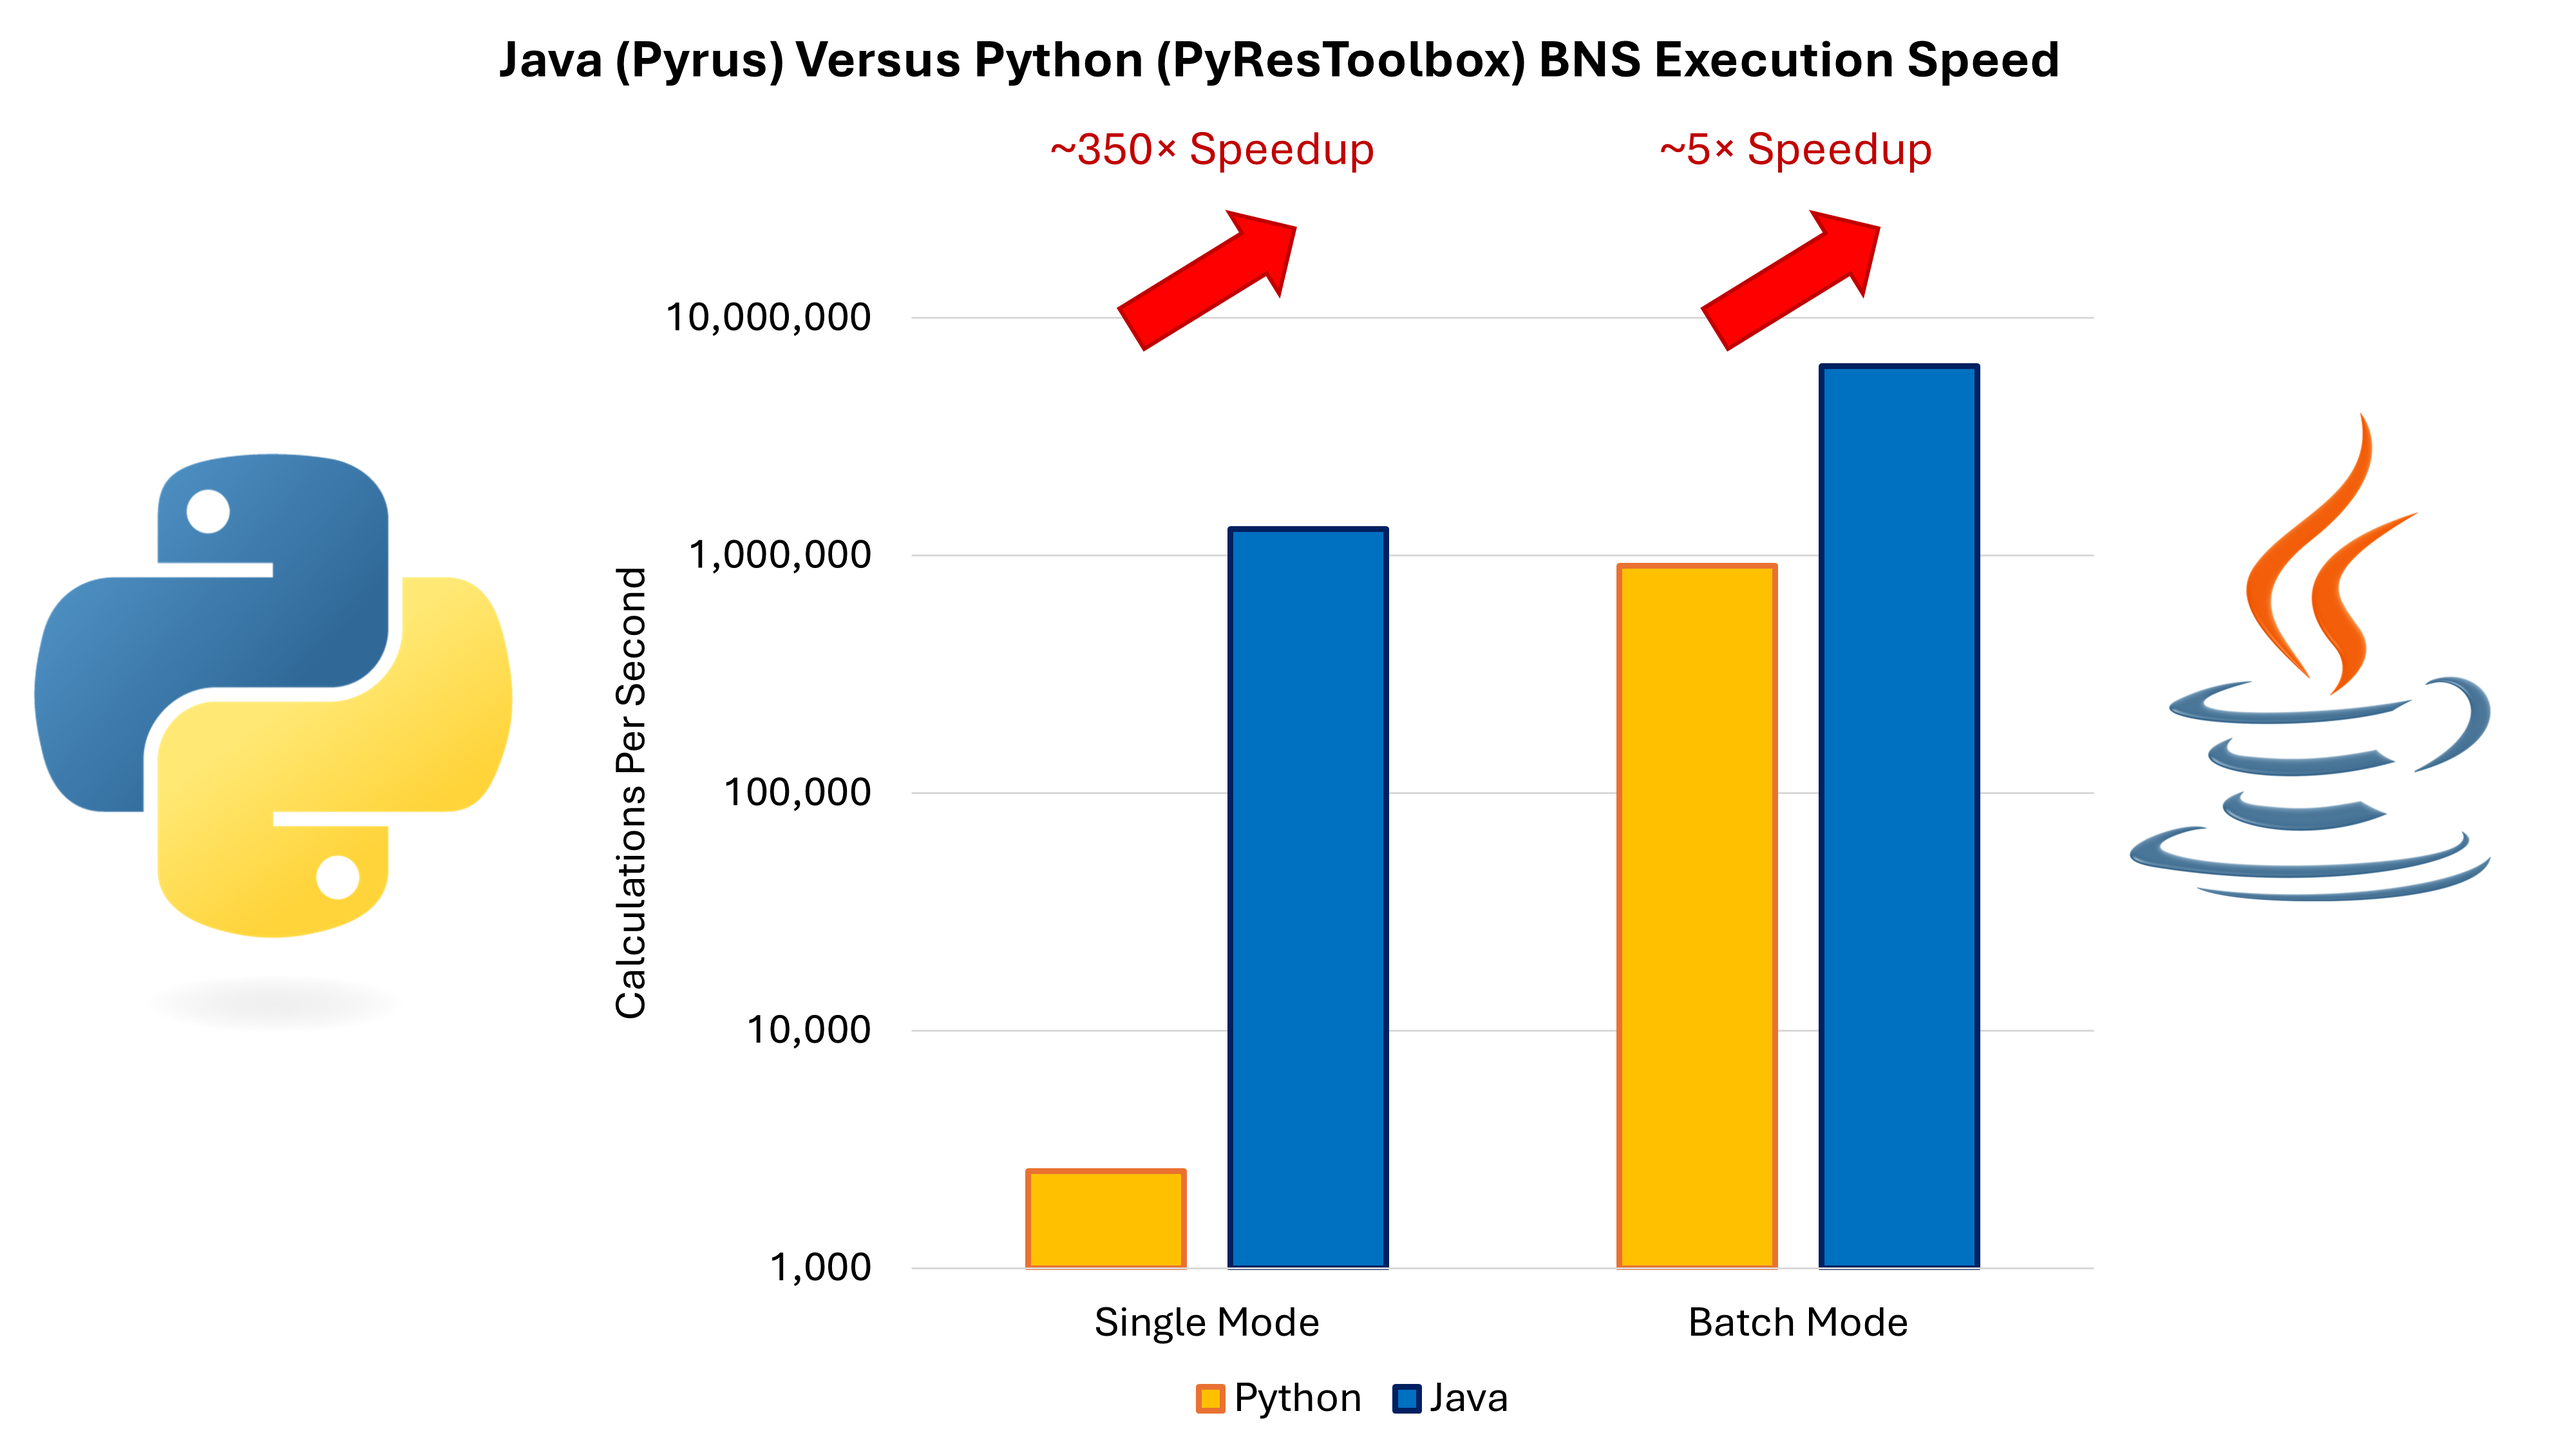
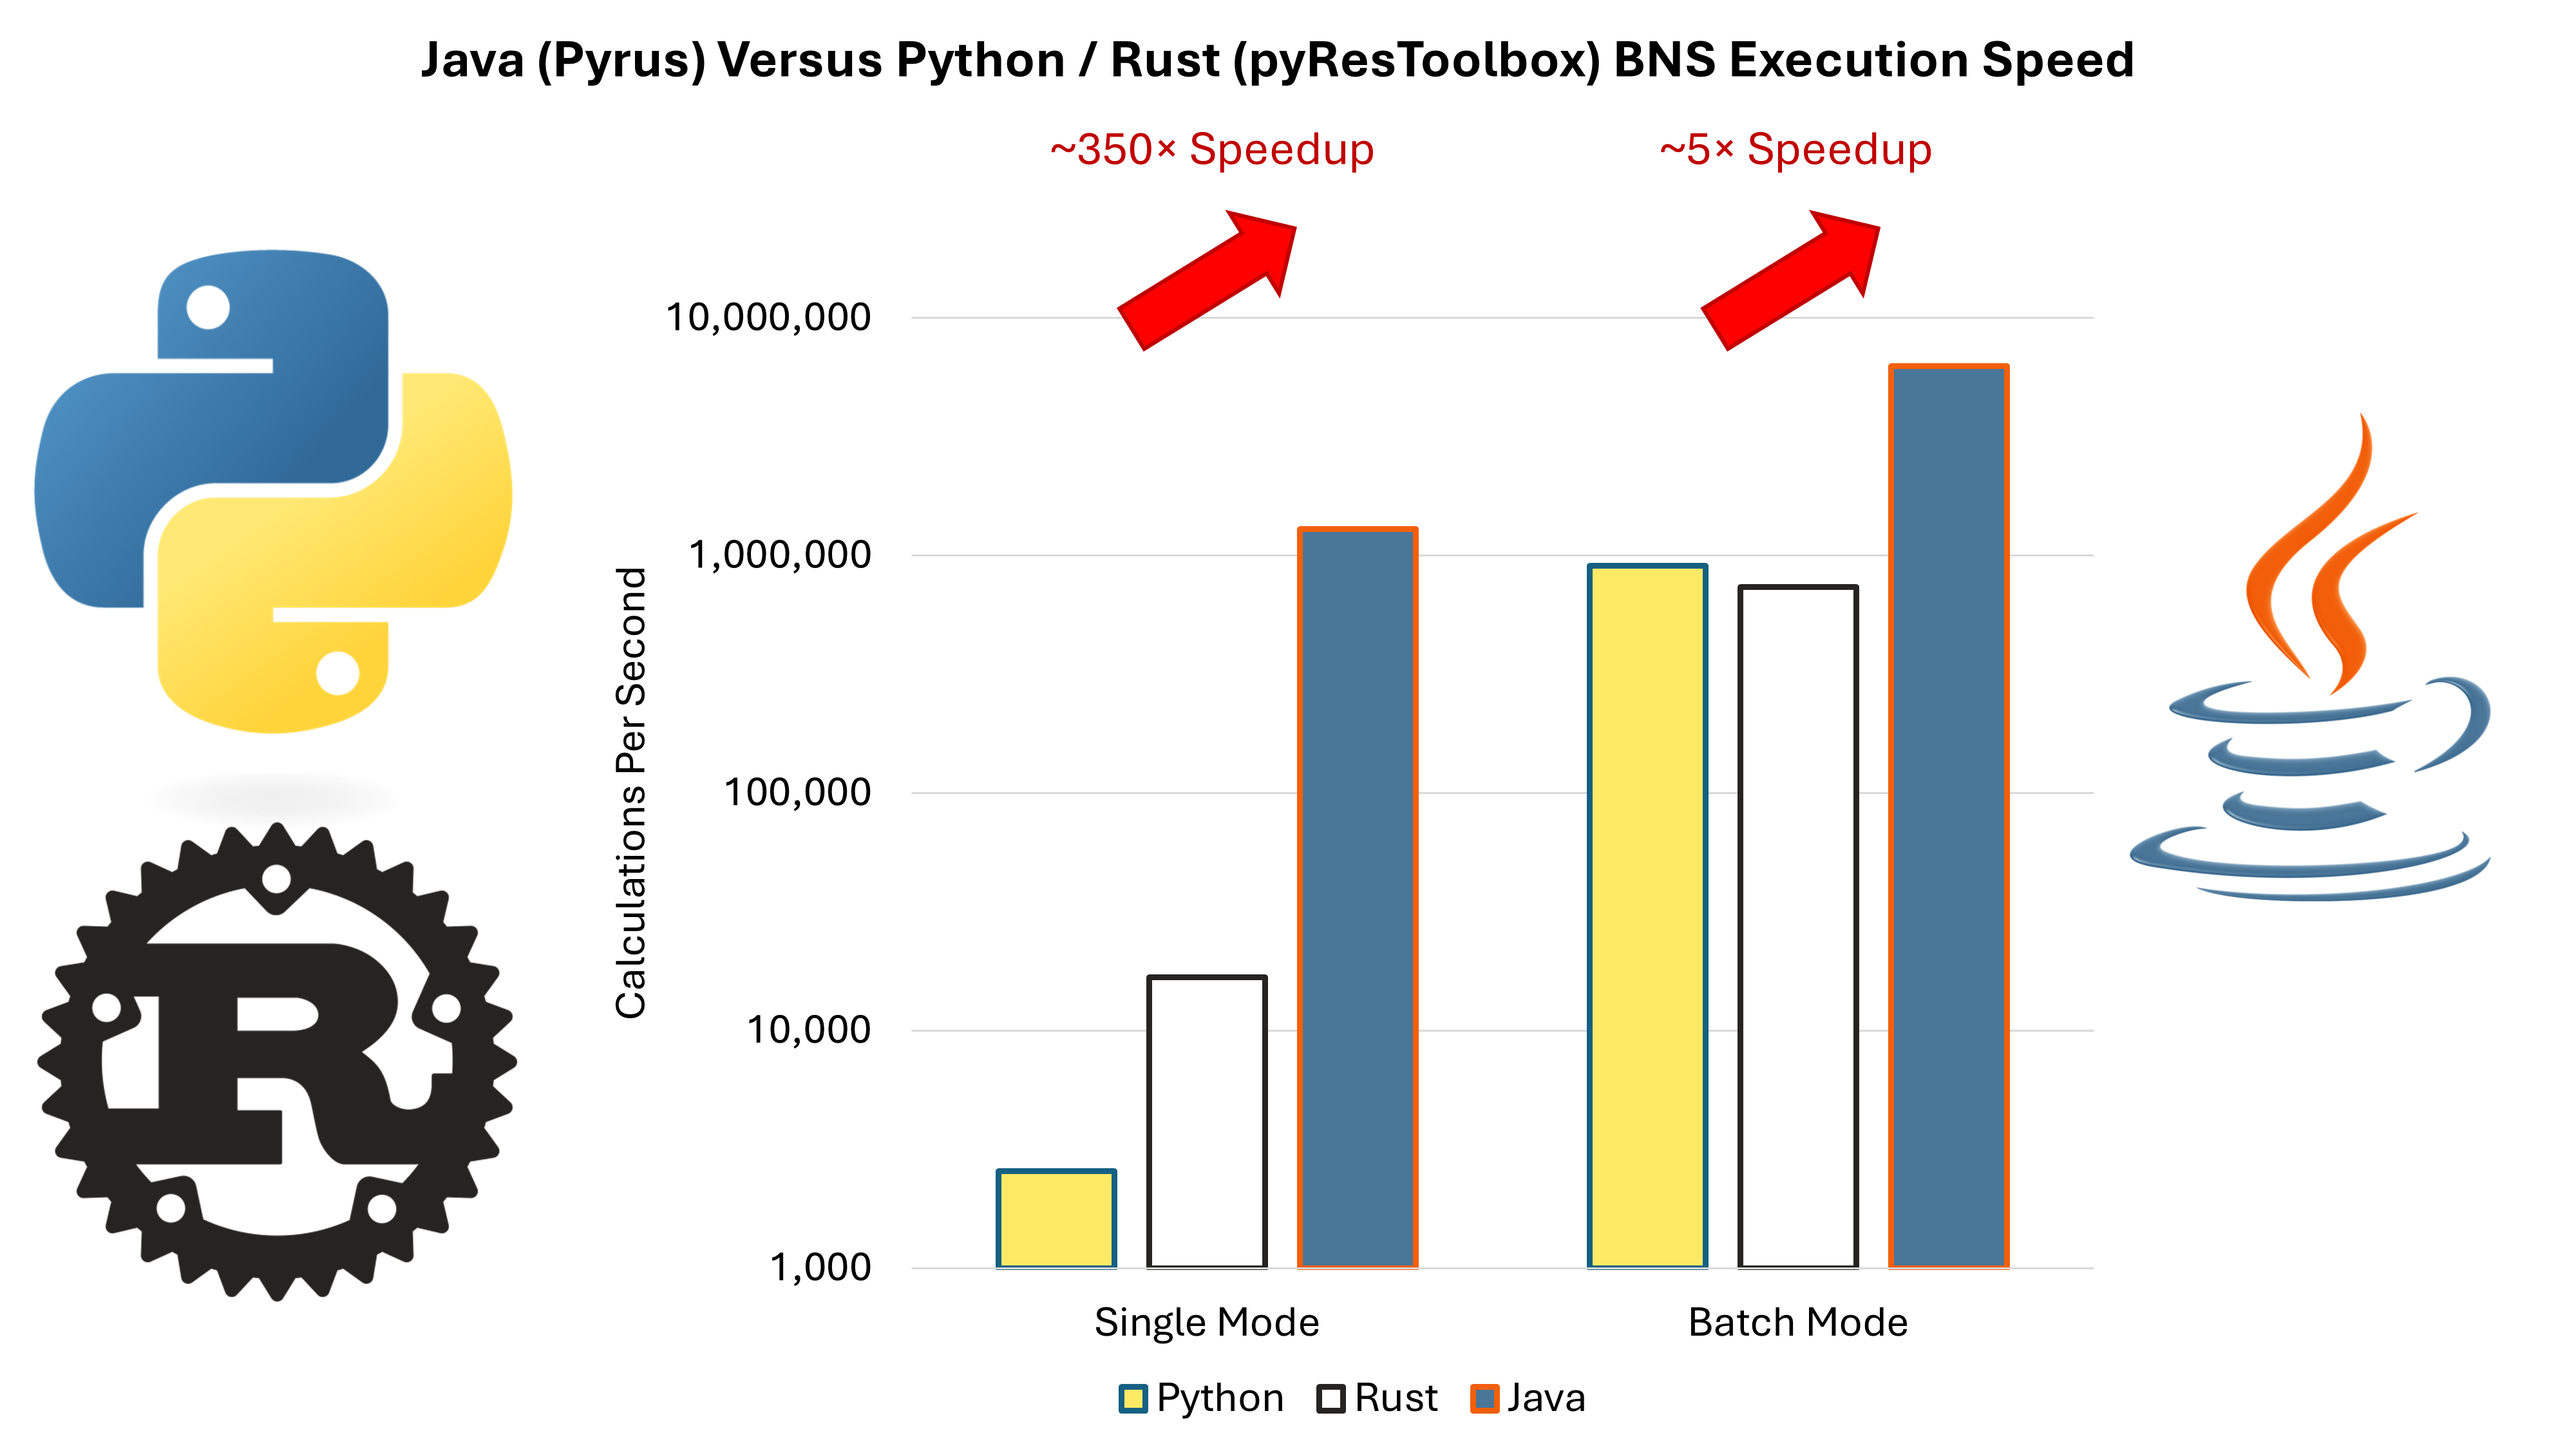
Update BNS viscosity post with Rust benchmarks

diff --git a/_posts/analysis/2026-04-05-viscosity-bns.md b/_posts/analysis/2026-04-05-viscosity-bns.md
@@ -1,7 +1,7 @@
 ---
 layout: article
 title: Burgoyne-Nielsen-Stanko Viscosity
-modified:
+modified: 2026-04-07
 categories: analysis
 excerpt: An explicit approach for rapid and accurate determination of Z-factor and viscosity for hydrocarbon gases.
 tags: [dynamic_model, simulation, fluid_properties, oil, gas, reservoir_engineering, viscosity, residual_viscosity, transport_properties, code_snippet, peng_robinson, eos, cubic_eos]
@@ -331,7 +331,7 @@ public static double zFactorBNS(double pressure, double temperature, double sg, 
 
     /*
      * Workflow from SPE-229932 for z-factor property calculation is:
-     * 
+     *
      *  1. Define mole fraction composition.
      *  2. Override pseudo-hydrocarbon Tc, Pc using BNS correlations into arrays of tuned critical temperatures and
      *     pressures.
@@ -792,7 +792,11 @@ A dataset comprising 1,156 data points was compiled from published data in the l
 
 The open source code for the BNS method is implemented in Python, Visual Basic, Fortran and Rust. As of the date of this blog post (early April 2026) it is understood that Mark Burgoyne testing the speedups achieved by re-writing some methods of PyResToolbox in the Rust language which should be much faster.
 
-A comparison between the Java implementation and the implementation included in PyResToolbox was tested using simple benchmark programs. These tested both the number of calculations per second achieved for single randomised compositions, and the number of calculations per second when executing in batch mode for a single composition at multiple pressures (feature included in the Python implementation). In batch mode, the Python implementation is able to take advantage of Numpy which is optimised for mathematical matrix operations, and can therefore be much faster. As an equivalent for Java, the logical approach is to implement a parallel processing optimisation, which it can be seen is rather trival to implement using Java streams. The benchmark programs that were used are:
+A comparison between the Java implementation and the implementation included in PyResToolbox was tested using simple benchmark programs. These tested both the number of calculations per second achieved for single randomised compositions, and the number of calculations per second when executing in batch mode for a single composition at multiple pressures (feature included in the Python implementation). A total of 1,000 calculations are used in batch mode. Admittedly this is more than would ever typically be run (usually a user might use an array with 10s to a hundred pressure points). Use of 1,000 is deliberate as it gives the algorithm the optimal chance to show what it can do in an optimised condition -- after all, this is a benchmark.
+
+In batch mode, the Python implementation is able to take advantage of Numpy which is optimised for mathematical matrix operations, and can therefore be much faster. As an equivalent for Java, the logical approach is to implement a parallel processing optimisation, which it can be seen is rather trival to implement using Java streams. Shortly after this post was first updated with the benchmarks, Mark released the Rust implementation for these routines. Rust is enabled by default when configuring the Python environment, or it can be turned off. The code used to run the benchmarks is identical. It is the configuration of the environment that determines whether Rust is used or not.
+
+The benchmark programs that were used are:
 
 ```java
 public void testGasViscosityBNS() {
@@ -900,7 +904,7 @@ def run_benchmark(duration_sec=5.0, n_samples=1000):
 
 <div class="notice-info">In preparation for sharing the Java code, much of unit conversion logic was stripped out to speed up execution in Java. This removes a lot of the overhead of JScience `Amount` class. Benchmark results with the code as shown in this blog post are about 2&times; to 3&times; slower.</div>
 
-The speed up obtained is shown graphically below in Figure 4. Note the use of the logarithmic scale. This was necessary as otherwise the number of calculations per second for the single mode Python implementation was not a visible bar on the chart.
+The speed up obtained is shown graphically below in Figure 4. Note the use of the logarithmic scale. This was necessary as otherwise the number of calculations per second for the single mode Python implementation was not a visible bar on the chart. The Rust implementation introduced helps to speed up the single mode methods, but has little effect on the batch mode. This is likely because in batch mode the code is able to take advantage of Numpy acceleration which uses C during loops instead of interpreted Python.
 
 <figure>
 	<a href="{{ site.url }}/images/Analysis/viscosity-modelling/viscosity-figure29.png" data-lightbox="image-4" data-title="Comparison calculation speeds for BNS viscosity method in Python versus Java implementations.">
@@ -912,6 +916,7 @@ The speed up obtained is shown graphically below in Figure 4. Note the use of th
 ## References
 
  - Burgoyne, M. W., Nielsen, M. H., and Stanko, M. 2025. A Universal, EOS-Based Correlation for Z-Factor, Viscosity and Enthalpy for Hydrocarbon and H<sub>2</sub>, N<sub>2</sub>, CO<sub>2</sub>, H<sub>2</sub>S Gas Mixtures. Paper presented at the ADIPEC, Abu Dhabi, UAE, 3-6 November. SPE-229932-MS. [https://doi.org/10.2118/229932-MS](https://doi.org/10.2118/229932-MS).
+ - Burgoyne, M. W. 2025. A Collection of Reservoir Engineering Utilities (pyResToolbox), https://github.com/mwburgoyne/pyResToolbox	(accessed 7 April 2026).
  - Herning, F. and Zipperer, L. 1936. Beitrag zur Berechnung der Zähigkeit Technischer Gasgemische aus den Zähigkeitswerten der Einzelbestandteile (Calculation of the Viscosity of Technical Gas Mixtures from Viscosity of the individual Gases), _Gas und Wasserfach_ **79**: 49–54, 69-73.
  - Jossi, J. A., Stiel, L. I., and Thodos, G. 1962. The Viscosity of Pure Substances in the Dense Gaseous and Liquid Phases. _AIChE Journal_ **8**: 59-63. [https://doi.org/10.1002/aic.690080116](https://doi.org/10.1002/aic.690080116).
  - Lee, A. L., Gonzalez, M. H., and Eakin, B. E. 1966. The Viscosity of Natural Gas. _J Pet Technol_ **18** (8): 997-1000. SPE-1340-PA. [https://doi.org/10.2118/1340-PA](https://doi.org/10.2118/1340-PA).
